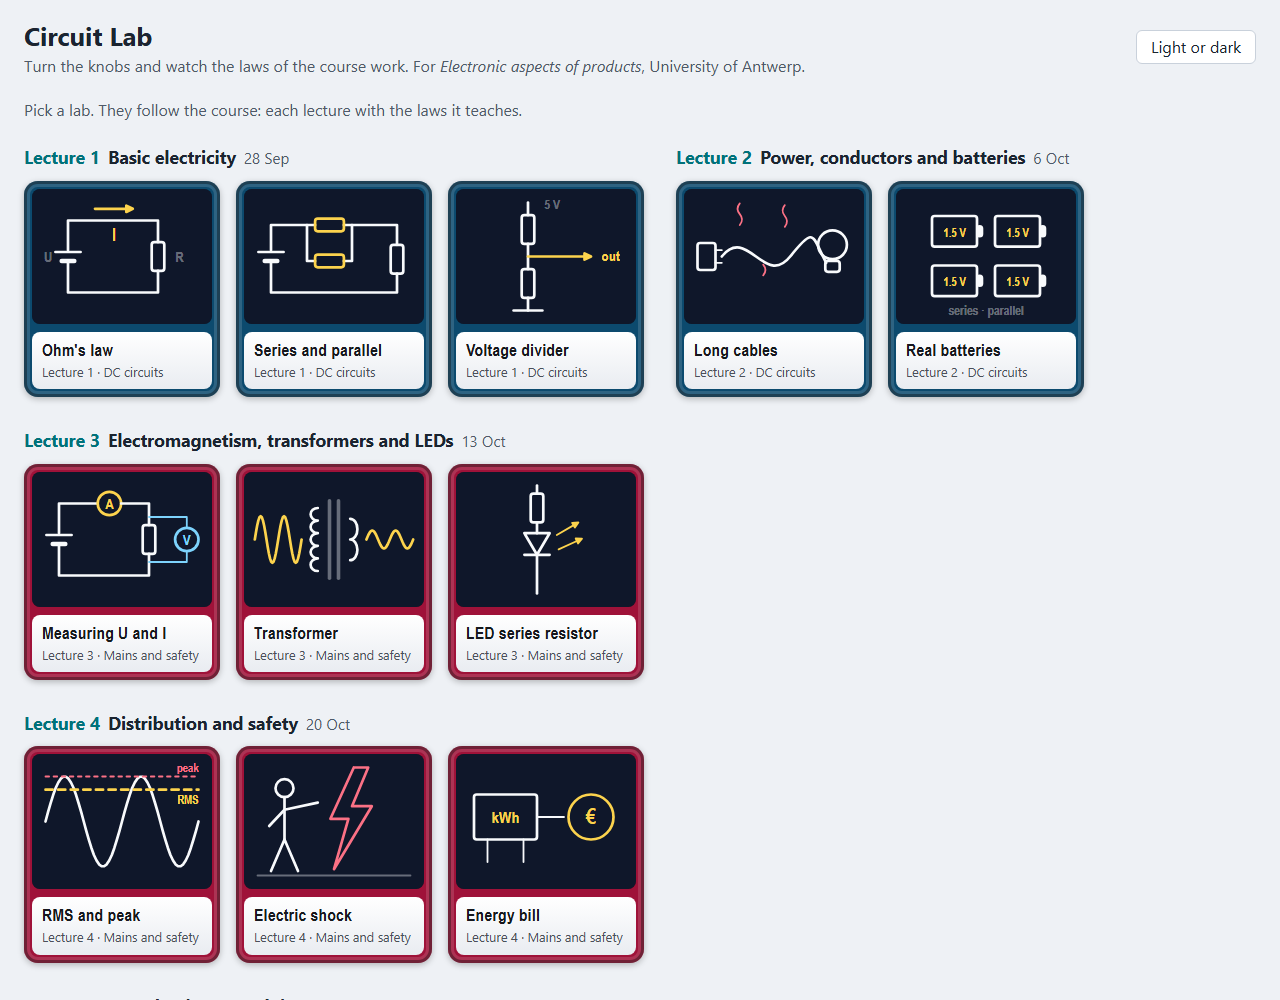
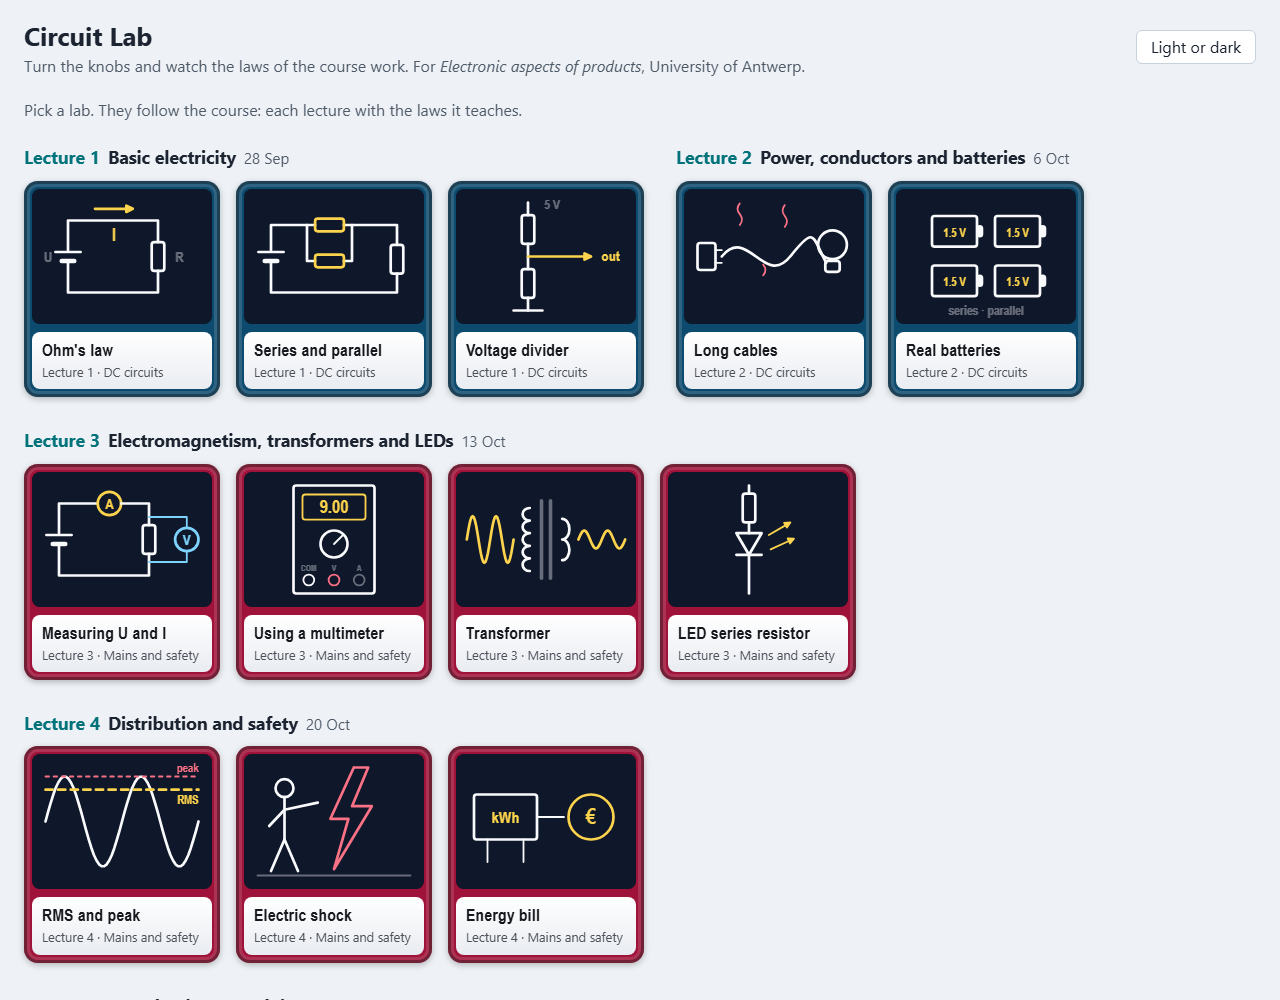
README: lab table for all 35 labs, the assumptions in Limits, new overview picture

diff --git a/README.md b/README.md
@@ -33,25 +33,35 @@ practice questions from the course's own exercise sheet, checked as you type the
 | 2 · 6 Oct · Power, conductors and batteries | Long cables | Pouillet's law: how much of 230 V reaches a load 700 m away on 6 mm² |
 |  | Real batteries | Four cells in series, parallel or two by two, each with a little resistance inside; the voltage at the load sags |
 | 3 · 13 Oct · Electromagnetism, transformers and LEDs | Measuring U and I | Put the ammeter and the voltmeter in series or across R; a wrong place shows as a short or as nothing flowing |
+|  | Using a multimeter | Pick what to measure, the red lead's socket and the range; the display reads, shows OL, or the fuse blows |
 |  | Transformer | Change the windings; the voltage, the currents, and the line loss at high and low voltage follow |
 |  | LED series resistor | Pick the colour, supply and current; get the resistor, the one you can buy, and what really flows |
 | 4 · 20 Oct · Distribution and safety | RMS and peak | Set the RMS voltage; see the wave reach √2 times higher, as 230 V mains peaks at 325 V |
 |  | Electric shock | Your body as a resistor: where you stand and what you touch, against the lesson's table of effects |
 |  | Energy bill | Power × hours × price for one device; the same heat bought with an electric heater, a heat pump or gas |
-| 5 · 21 Oct · Introduction to Arduino | Pull-down resistor | A button on D2 with no resistor, a pull-down or a pull-up; watch the open pin read at random |
+| 5 · 21 Oct · Introduction to Arduino | The breadboard | Click holes and see which are joined inside; place a part's legs and see whether it bridges two strips or is shorted |
+|  | Pull-down resistor | A button on D2 with no resistor, a pull-down or a pull-up; watch the open pin read at random |
 |  | From voltage to analogRead | The voltage on A0, the 10-bit staircase, `map()` and the servo turning |
 |  | PWM: a voltage by switching | `analogWrite` as a square wave, its duty and average, and an LED dimming |
+| 7 · 28 Oct · Variables, functions and serial | Variable types and overflow | Store a number in byte, int or long on the UNO R3 or R4 and watch it wrap; typecasting examples |
 | 8 · 3 Nov · Sensors | Temperature sensor (NTC) | Warm the lecture's NTC; its resistance, the divider's voltage, analogRead, and the temperature worked back |
+| 9 · 4 Nov · Advanced Arduino programming | State machine | The lecture's traffic light: states, events and transitions, stepped through with its switch-case code |
+|  | Mixing colours | Three sliders 0–255 mix a NeoPixel colour, with its code and the 16 777 216 colours |
 | 10 · 17 Nov · Semiconductors | From AC to smooth DC | No diode, one diode or a Graetz bridge, then a capacitor: the wave, its average and its ripple |
+|  | Transistor as a switch | Pin 9 through a base resistor switches an LED strip; the base current against the pin's limit, on or half on |
 |  | Opamp amplifier | Set both inputs and the gain; the output follows the difference, and stops at the supply if you give it one |
 |  | Lowering a voltage | An LM7805 from 12 V: the heat it burns, its efficiency, and a switching converter beside it |
-| 11 · 17 Nov · Digital circuits | Binary numbers | Flip bits; see the place values, the two's complement reading and the flash ADC's comparators |
+| 11 · 17 Nov · Digital circuits | Number bases | One number in decimal, binary, octal and hexadecimal; binary addition with its carries |
+|  | Binary numbers | Flip bits; see the place values, the two's complement reading and the flash ADC's comparators |
 |  | Logic gates | Flip two inputs, pick a gate; the output, its row of the truth table and the same test in Arduino code |
+|  | Shift register | Set the data pin, pulse the clock, latch; or shiftOut a byte: eight outputs from three pins |
 |  | From number to voltage (DAC) | Flip three bits; the lecture's DAC steps down from 0 V, its staircase and the feedback resistor |
 |  | Button bounce | One press of a bouncing button counted raw and with the course's 50 ms debounce |
-| 12 · 24 Nov · Batteries | Battery life | Cell type, cells in series, capacity and load: hours, Wh and the cost of a charge |
+| 12 · 24 Nov · Batteries | Battery chemistries | Each chemistry's cell voltage, cells in series for a voltage, and a LiPo's safe window |
+|  | Battery life | Cell type, cells in series, capacity and load: hours, Wh and the cost of a charge |
 |  | Battery budget | The lecture's sensor node: measuring, idle and sending, the mAh a year and how many years 5200 mAh lasts |
 | 13 · 1 Dec · Motors | Sizing a motor | Mass, height and time give the ideal power; a safety factor gives the motor to buy |
+|  | Stepper or servo | Send steps to a stepper under load and see it lose position without knowing; the servo gets there |
 
 Every answer on the exercise sheet is recomputed by the program in the tests, so a typo in the data fails the build.
 
@@ -82,6 +92,11 @@ check that holds them: [ARCHITECTURE.md](ARCHITECTURE.md). Tests: `node --test "
 - Ideal parts: no tolerances, no temperature, an LED with a fixed forward voltage, an ideal converter. Measure on the
   real kit too.
 - The rectifier steps ideal diodes with a fixed 0.7 V drop; the shock lab uses the lesson's single body resistances.
+- The switching converter's efficiency in the regulator lab is an assumption to play with; the lecture gives no number.
+- Labelled assumptions, not course data: the transistor's current gain β, the multimeter's 0.2 A mA fuse, the light
+  sensor's resistance range, and the stepper's skipped steps under load (a made-up model to show the effect).
+- Lecture 7's type table is the UNO R3's; on the kit's UNO R4 an int is 4 bytes. The variables lab offers both.
+- The cable lab's temperature uses ρ = ρ20 × (1 + α × (T − 20 °C)); the syllabus writes the law differently (§2.8).
 - The cable lab holds the load's current fixed, as the lesson's example does; a real load draws less when its voltage
   drops.
 
